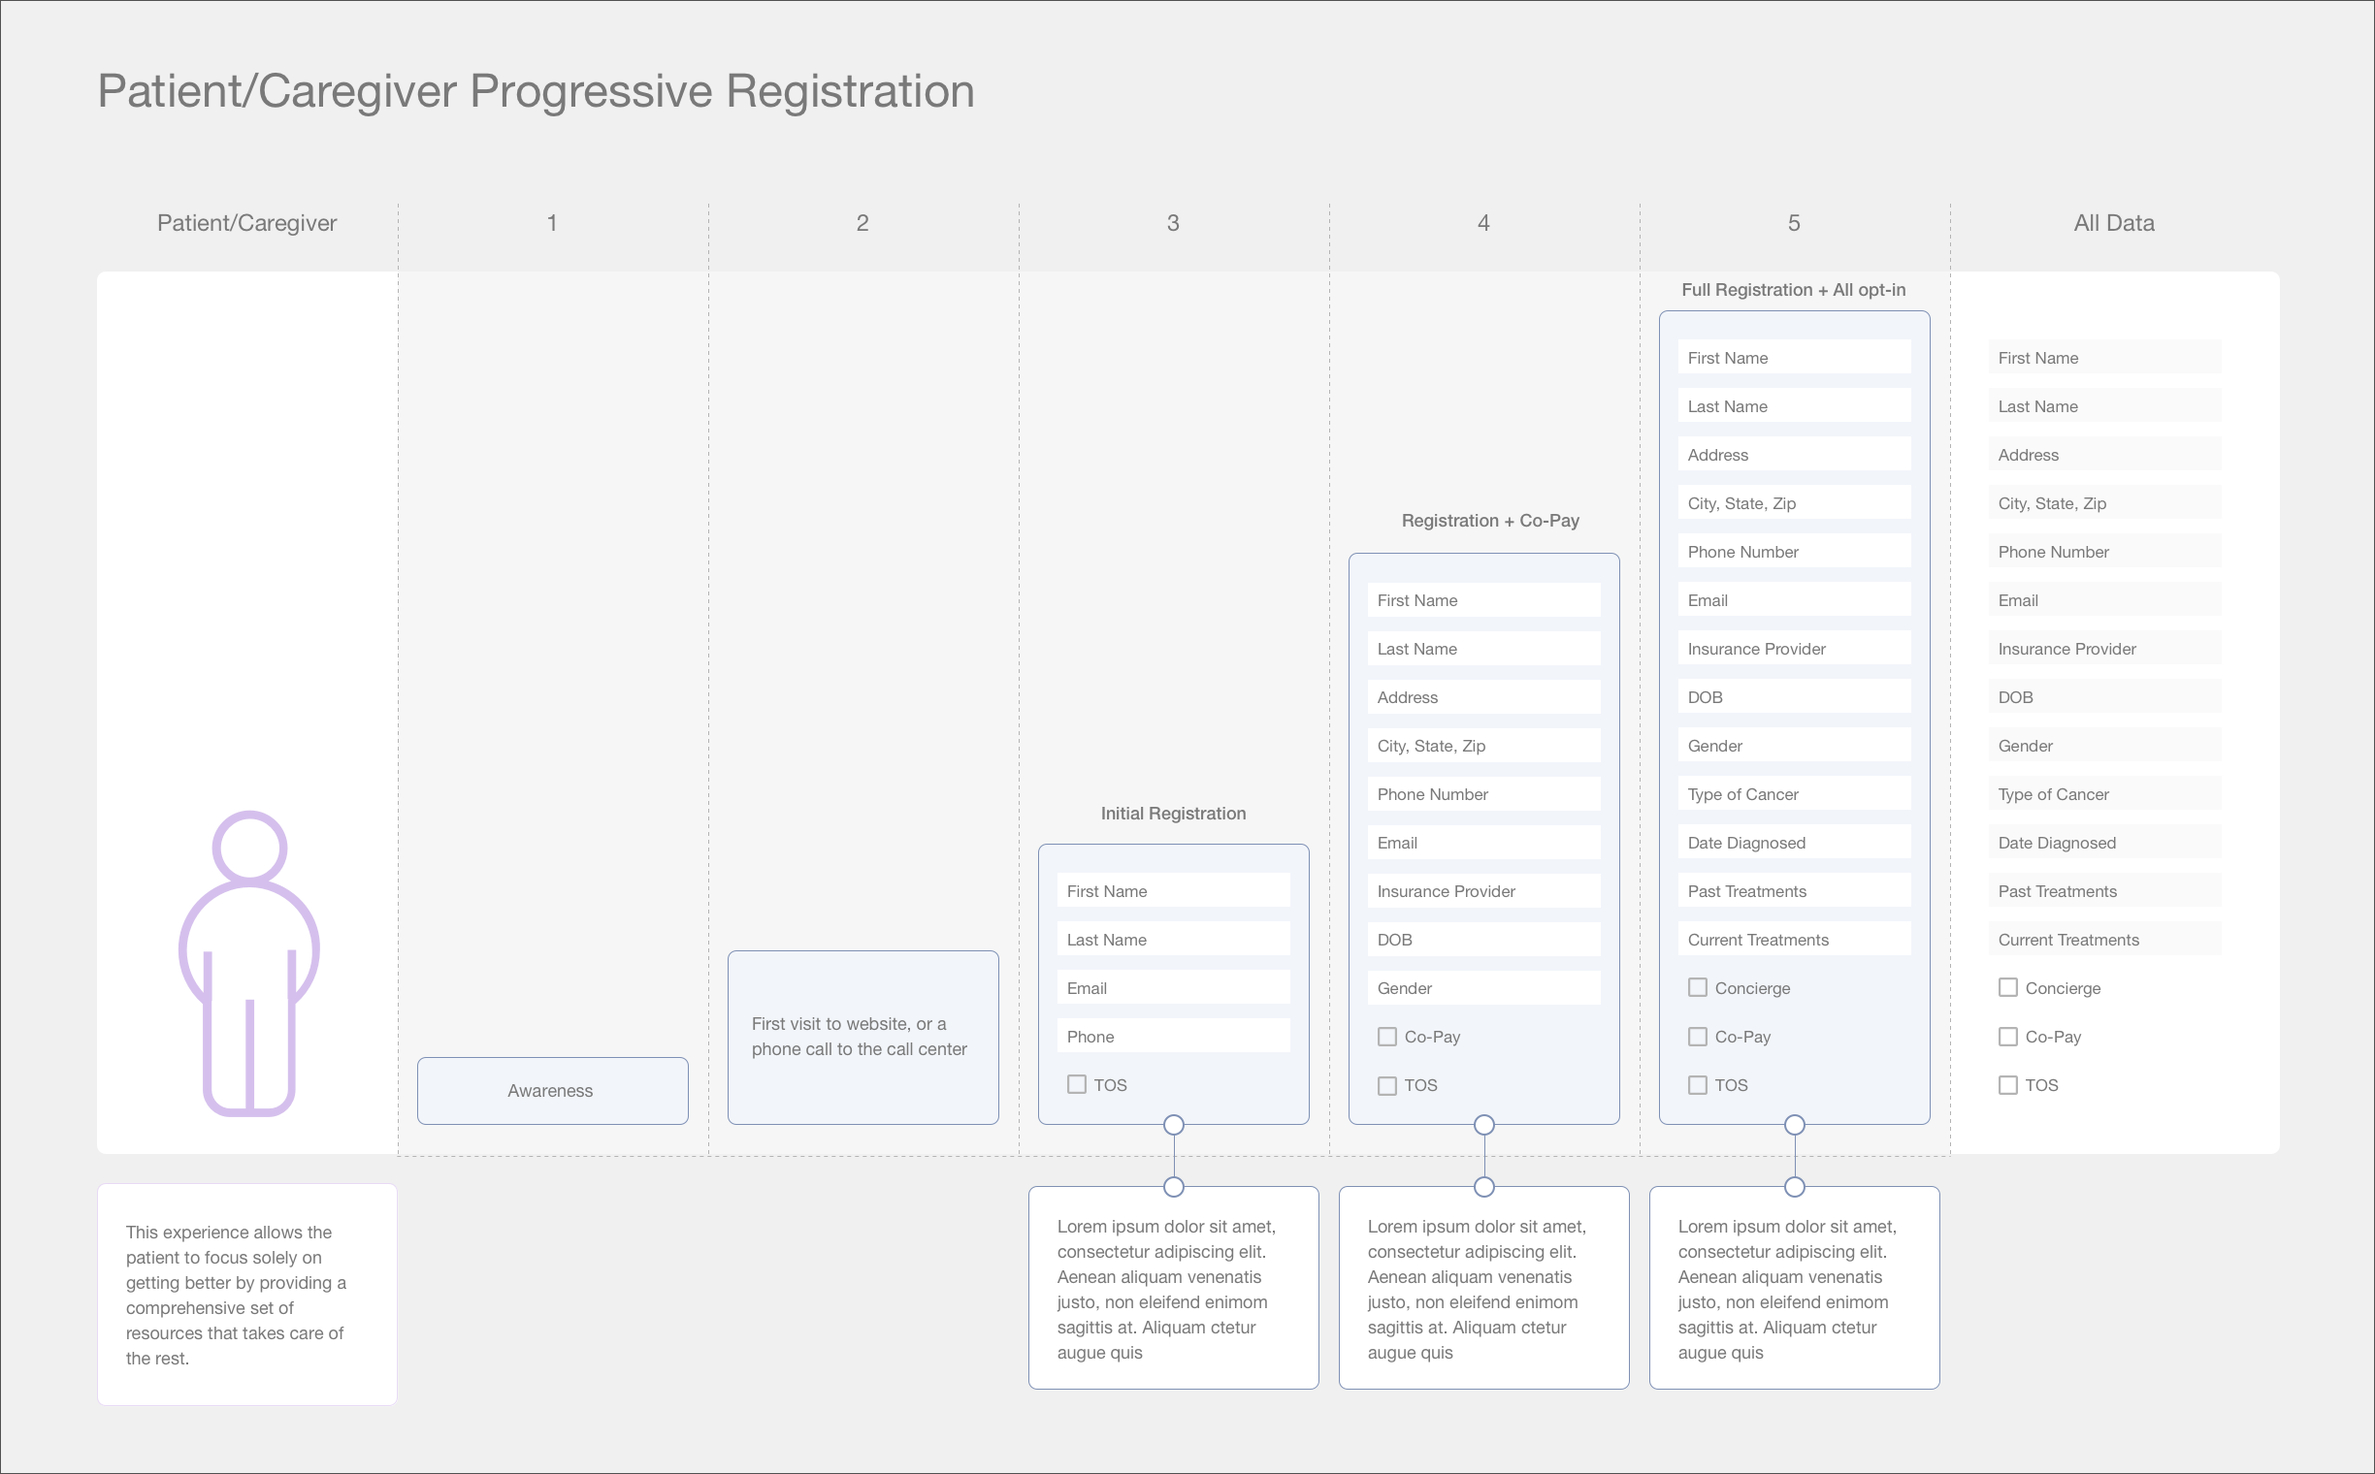
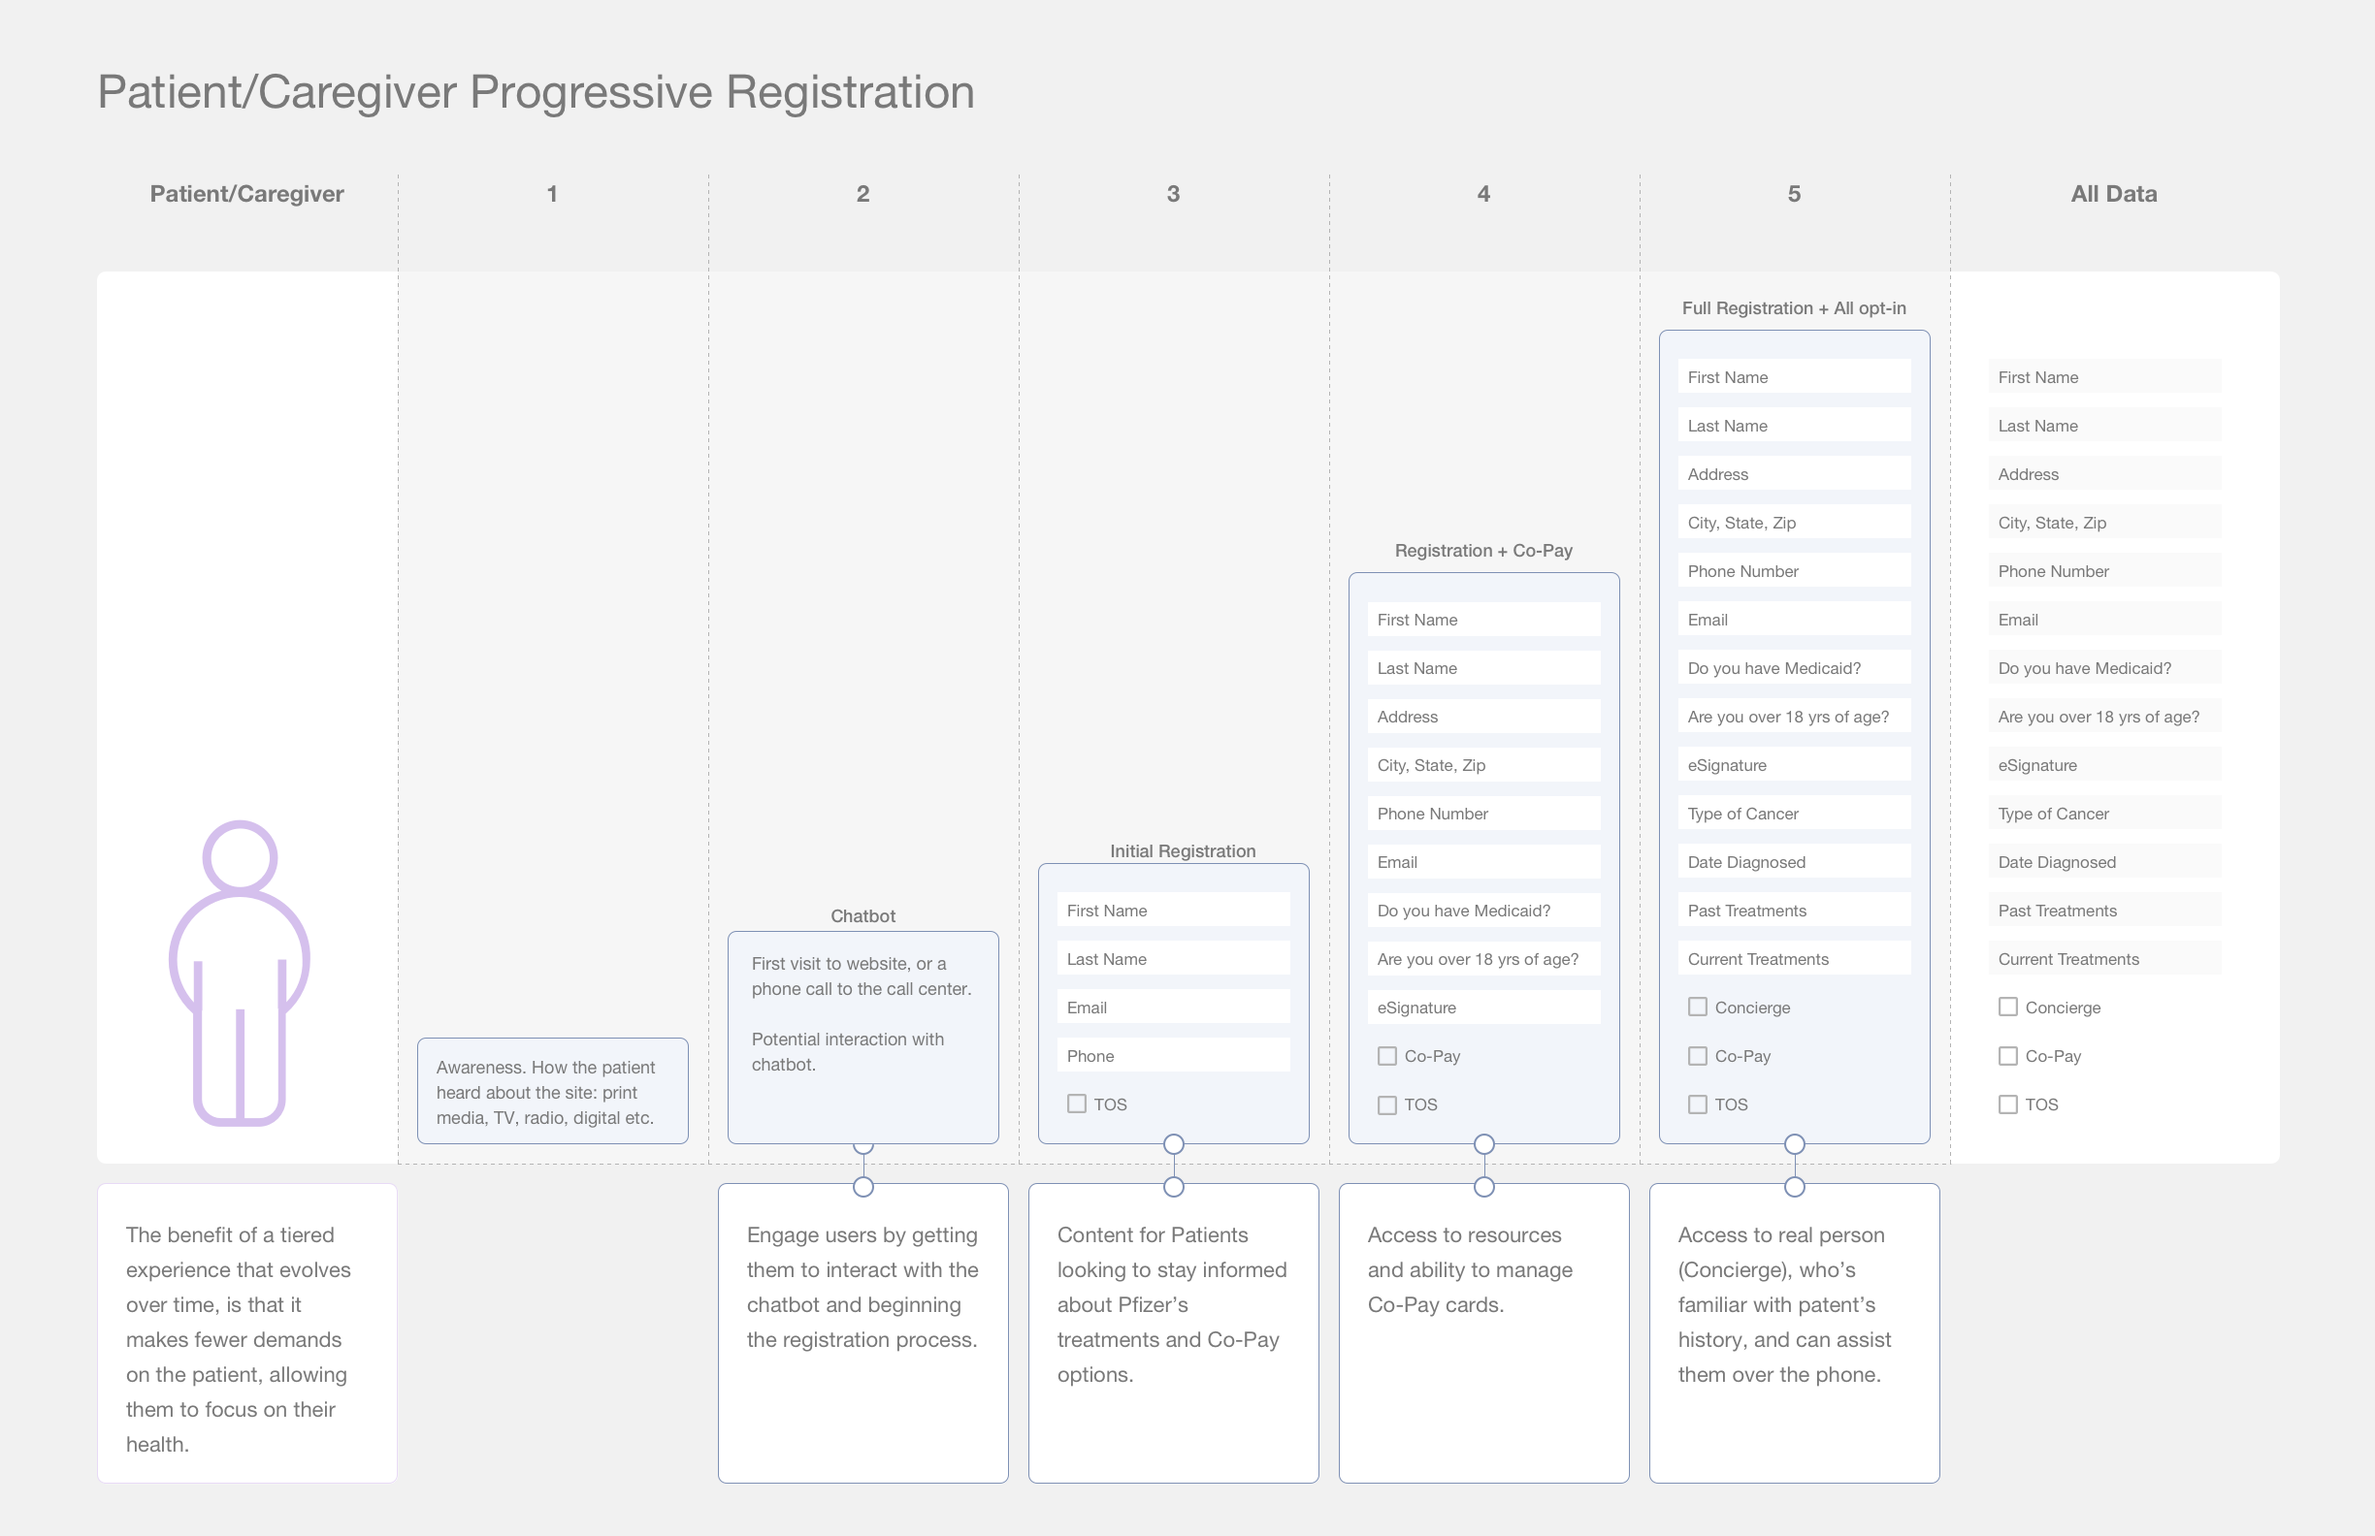
Changed oncology page

diff --git a/oncology.html b/oncology.html
@@ -23,9 +23,6 @@
 	<link rel="stylesheet" href="css/skeleton.css">
 	<link rel="stylesheet" href="css/style.css">
 
-
-	<link href="https://fonts.googleapis.com/css?family=lato" rel="stylesheet">
-
 	<link rel="icon" type="img/png" href="img/favicon.png">
 
 
@@ -38,15 +35,17 @@
 		<div class="twelve column">
 			<div class="backHome"><a class="backHome" href="index.html">↤ Home</a></div>
 			<div class="projectHeadline noHeroImage">Oncology Treatment Support Portal</div>
-			<div class="nine columns">
-			<div class="caseBody"><a href="https://www.patientsandpurpose.com/">Patients and Purpose</a> was tasked by a national pharmaceutical company to create a personalized online support portal for patients (along with their caregivers & healthcare professionals) who receive their oncology treatments. The portal provides users with traditional access and financial reimbursement services, as well as connecting them with social workers who can provide them with independent third party resources that provide emotional support, lodging, transportation and workplace transition support. 
-			</div>
 
-			<div class="caseBody">As a member of the UX team, I was a key contributor, performing the following tasks; 
+			<div class="nine columns">
+			<div class="caseBody"><br>In 2017, a national pharmaceutical company launched a new support program for patients using their oncology treatments. Patients would be paired with dedicated counselors, who would assist them over the phone with finding resources for financial assistance, emotional support and other day-to-day challenges of having cancer, such as finding transportation or lodging when receiving out of town treatment.</div>
+
+			<div class="caseBody"><a href="https://www.patientsandpurpose.com/">Patients and Purpose</a> was tasked with creating a website for the program that would educate patients, caregivers and healthcare professionals and provide multiple ways to simply and quickly sign up for the program. The site would also provide users with access to information about treatment, as well as forms and resources necessary for financial reimbursement. 
 			</div>
+			<div class="subTitle">Role</div>
+
 			<div class="bodyList">
 				<div>
-					<ul class="finalParagraph">
+					<ul class="">
 						<li>Developed persona flows and customer touchpoints, identifying our users and determining how they would be reaching our site.</li>
 						<li>Created sitemaps and wireframes for separate patient and healthcare provider experiences</li>
 						<li>Outlined an approach for a progressive registration system</li>
@@ -54,11 +53,38 @@
 					</ul>
 				</div>
 			</div>
-			<div class="caption">Sample of documents produced including persona flows, site map, user flow and wireframes</div>
-			<div class="inlineImage"><img src="img/oncology01.png"></div>
-			<div class="inlineImage"><img src="img/oncology02.png"></div>
-			<div class="inlineImage"><img src="img/oncology03.png"></div>
-			<div class="inlineImage finalParagraph"><img src="img/oncology04.png"></div>
+
+			<div class="subTitle"><b>UX Challenges</b></div>
+			<div class="subSubTitle"><b>Progressive Registration</b></div>
+			<div class="caseBody">Initially, the client saw user registration as an all or nothing proposition. If patients wanted access to any of the program’s features, from periodic informational e-mails, all the way to access to a personal telephone concierge, they would need to fill out a lengthy form that required not only personal contact information, but also particulars about their cancer diagnosis and treatment. We realized quickly that this would be a heavy burden on the user and greatly decrease the chances that they would sign-up for anything at all. </div>
+
+			<div class="caseBody">In response, we created a progressive registration system, where users would be able to engage with the program at the level that they wanted and only have to provide the necessary amount of information. There were three levels;</div>
+
+			<div class="bodyList">
+				<div>
+					<ul class="">
+						<li><i>Registration</i> - Access to periodic e-mails with treatment tips and financial support options</li>
+						<li><i>Registration + Co-Pay Card</i> – Access to resources and ability to manage co-pay cards</li>
+						<li><i>Concierge Care</i> – Access to a concierge who’s familiar with patient’s history and can assist them over the phone</li>
+					</ul>
+				</div>
+			</div>
+
+			
+			<div class="bodyImage"><img src="img/pfizerProgressiveRegistration.png"></div>
+			<div class="caption">Diagram of the steps of progressive registration, showing the amount of personal information that a user would have to provide for each level of the program.</div>
+			
+			<div class="caseBody">Users could join any level at any time. If they wanted to increase their engagement with the program, they would pick-up the registration process from where they left it and not have to re-enter any data, only updating their profile with the necessary information. This made it easier for users to increase their engagement over time, as they didn’t have to repeat any steps during the process.</div>
+
+			<div class="subSubTitle"><br><b>Multiple Ways to Sign Up</b></div>
+
+			<div class="caseBody">Dealing with cancer is obviously a stressful situation, so we wanted to make our users as comfort as possible with registration. In addition to web sign-up, we offered a toll-free phone number that users could call so that they could ask any questions they wanted before joining the program. Representatives would then be able to sign them up over the phone. </div>
+
+			<div class="caseBody">However, calling customer support creates extra friction for users, as they might be wary of having to wait on hold for an unknown amount of time.  To ease this concern, we created a third option. Prominently displayed in the header of every page, a callout invited users to request a call from a representative in as little as an hour simply by providing their name and telephone number.  </div>
+
+			<div class="bodyImage"><img src="img/webPhone.png"></div>
+			<div class="caption">Wireframes for steps </div>
+			
 
 
 			

diff --git a/oncologyOLD.html b/oncologyOLD.html
@@ -1,0 +1,72 @@
+<!DOCTYPE html>
+<html>
+<head>
+
+	<!-- Global site tag (gtag.js) - Google Analytics -->
+<script async src="https://www.googletagmanager.com/gtag/js?id=UA-133972355-1"></script>
+<script>
+  window.dataLayer = window.dataLayer || [];
+  function gtag(){dataLayer.push(arguments);}
+  gtag('js', new Date());
+
+  gtag('config', 'UA-133972355-1');
+</script>
+
+	<meta charset="utf-8">
+	<title>Oncology Treatment Support Portal</title>
+	<meta name="description" content="">
+	<meta name="author" content="">	
+
+	<meta name="viewport" content="width=device-width, initial-scale=1">
+
+	<link rel="stylesheet" href="css/normalize.css">
+	<link rel="stylesheet" href="css/skeleton.css">
+	<link rel="stylesheet" href="css/style.css">
+
+
+	<link href="https://fonts.googleapis.com/css?family=lato" rel="stylesheet">
+
+	<link rel="icon" type="img/png" href="img/favicon.png">
+
+
+</head>
+
+<body>
+
+	<div class="container">
+
+		<div class="twelve column">
+			<div class="backHome"><a class="backHome" href="index.html">↤ Home</a></div>
+			<div class="projectHeadline noHeroImage">Oncology Treatment Support Portal</div>
+			<div class="nine columns">
+			<div class="caseBody"><a href="https://www.patientsandpurpose.com/">Patients and Purpose</a> was tasked by a national pharmaceutical company to create a personalized online support portal for patients (along with their caregivers & healthcare professionals) who receive their oncology treatments. The portal provides users with traditional access and financial reimbursement services, as well as connecting them with social workers who can provide them with independent third party resources that provide emotional support, lodging, transportation and workplace transition support. 
+			</div>
+
+			<div class="caseBody">As a member of the UX team, I was a key contributor, performing the following tasks; 
+			</div>
+			<div class="bodyList">
+				<div>
+					<ul class="finalParagraph">
+						<li>Developed persona flows and customer touchpoints, identifying our users and determining how they would be reaching our site.</li>
+						<li>Created sitemaps and wireframes for separate patient and healthcare provider experiences</li>
+						<li>Outlined an approach for a progressive registration system</li>
+						<li>Researched and designed approaches for integrating chatbots into the site, specifically for user registration purposes.</li>
+					</ul>
+				</div>
+			</div>
+			<div class="caption">Sample of documents produced including persona flows, site map, user flow and wireframes</div>
+			<div class="inlineImage"><img src="img/oncology01.png"></div>
+			<div class="inlineImage"><img src="img/oncology02.png"></div>
+			<div class="inlineImage"><img src="img/oncology03.png"></div>
+			<div class="inlineImage finalParagraph"><img src="img/oncology04.png"></div>
+
+
+			
+
+			</div>
+		</div>
+
+	</div>
+
+</body>
+</html>

diff --git a/target.html b/target.html
@@ -44,13 +44,13 @@
 
 			
 
-			<div class="caseSubtitle">For Target & Vogue’s 2015 New York Fashion Week event, Bossa NYC created a high-tech photo booth that allowed guests to get their picture taken throughout a series of installations and get instant access to the results. As the UX lead, I designed wireframes and user flows for the experience, as well as collaborated with the creative technologist on the overall concept and the technical approach.</div>
+			<div class="subtitle">For Target & Vogue’s 2015 New York Fashion Week event, Bossa NYC created a high-tech photo booth that allowed guests to get their picture taken throughout a series of installations and get instant access to the results. As the UX lead, I designed wireframes and user flows for the experience, as well as collaborated with the creative technologist on the overall concept and the technical approach.</div>
 			
 
 			<div class="nine columns">
 			<div class="caseBody">Mother New York approached Bossa about creating a series of photo booths that would capture guests as they interacted with three installations scattered throughout the event. They wanted guests to have instant access to their photos and videos, so that they could share them on social media as quickly as possible. Bossa needed to develop a system that allowed guests to quickly register their contact information before they entered the party and then effortlessly associate this information to every picture of them that was taken. Additionally, the system had to be robust enough to handle both photos and video, as well as the ability to remotely trigger cameras.</div>
 
-			<div class="caseSubtitle">Design Process</div>
+			<div class="subtitle">Design Process</div>
 
 			<div class="caseBody">Our goal from the beginning was to give the guests an experience that was similar to taking pictures with their own camera. We wanted them to be able to walk up to any of the installations, have there photo taken and have instant access to them on their phone with a minimum amount of friction as possible.</div>
 

diff --git a/css/style.css b/css/style.css
@@ -100,6 +100,12 @@ iframe {
   font-weight: 600;
 }
 
+.subSubTitle {
+  margin: 16px 0 0 0;
+  font-size: 18px;
+  font-style: italic;
+}
+
 .caseBody {
   margin: 16px 0px 0 0;
   font-weight: 400;
@@ -114,6 +120,11 @@ iframe {
 }
 
 .heroImage {
+  margin: 48px 0 0 0;
+  width: 1040px;
+}
+
+.bodyImage {
   margin: 48px 0 0 0;
   width: 1040px;
 }
@@ -133,13 +144,17 @@ iframe {
 }
 
 .caption {
-  margin: 12px 0 0 0;
-  font-size: 16px;
+  margin: 12px 0 24px 0;
+  font-size: 14px;
   font-style: italic;
 }
 
 .videoEmbed {
   margin: 24px 0 48px 0;
+}
+
+.sectionBreak {
+margin-bottom: 36px;
 }
 
 .finalParagraph {
